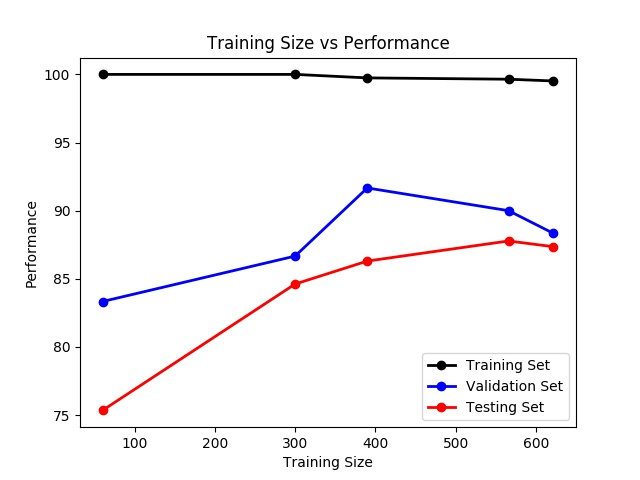
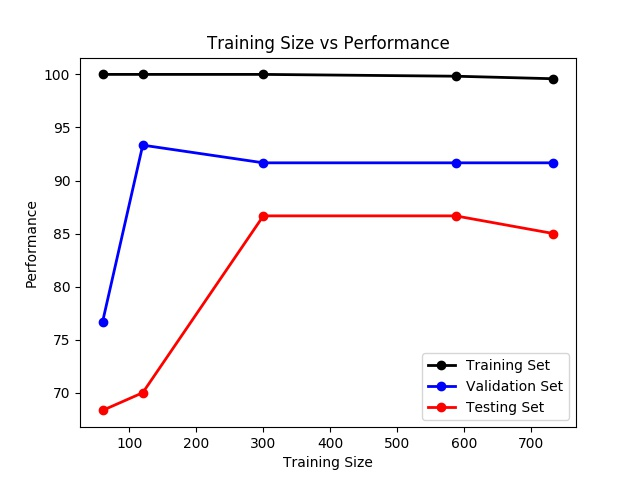
Cleanup dataset and get all plots working

diff --git a/faces.py b/faces.py
@@ -29,12 +29,14 @@ def part1():
     # Actors for training and validation set
     act = ['Lorraine Bracco', 'Peri Gilpin', 'Angie Harmon', 'Alec Baldwin', 'Bill Hader', 'Steve Carell']
 
-    #get_and_crop_images(act)
+    get_and_crop_images(act)
 
     # Actors for testing set (part 5)
     act_test = ['Daniel Radcliffe', 'Gerard Butler', 'Michael Vartan', 'Kristin Chenoweth', 'Fran Drescher', 'America Ferrera']
 
-    get_and_crop_images(act_test)
+    #get_and_crop_images(act_test)
+
+    remove_bad_images()
 
 ################################################################################
 # Part 2
@@ -47,7 +49,7 @@ def part2():
 ################################################################################
 # Part 3
 ################################################################################
-def part3():
+def part3(full_training_set = True, max_iterations = 5000):
     actor_0, actor_1 = 'Alec Baldwin', 'Steve Carell'
 
     a_0_name = actor_0.split()[1].lower()
@@ -55,6 +57,10 @@ def part3():
 
     a_1_name = actor_1.split()[1].lower()
     training_set_1, validation_set_1, testing_set_1 = build_sets(a_1_name)
+
+    if not full_training_set:
+        training_set_0 = training_set_0[:2]
+        training_set_1 = training_set_1[:2]
 
     total_training_examples = len(training_set_0) + len(training_set_1)
 
@@ -79,7 +85,7 @@ def part3():
         i += 1
 
     theta_init = np.zeros(1025)
-    theta = grad_descent(f, df, x, y, theta_init, 0.00001, 50000)
+    theta = grad_descent(f, df, x, y, theta_init, 0.00001, max_iterations)
 
     # Performance on Training Set
     correct, total, cost_fn = 0, 0, 0
@@ -145,11 +151,31 @@ def part3():
     print("Validation Set Performance = "+str(correct)+"/"+str(total))
     print("Cost Function value for validation set is "+str(cost_fn))
 
+    return theta
+
 ################################################################################
 # Part 4
 ################################################################################
 def part4():
-    pass
+    theta_4a_1, theta_4a_2 = part3(True), part3(False)
+
+    theta_4a_1 = np.delete(theta_4a_1, 0)
+    theta_4a_1 = np.reshape(theta_4a_1, (32, 32))
+    imsave("part4a_1.jpg", theta_4a_1, cmap = "RdBu")
+
+    theta_4a_2 = np.delete(theta_4a_2, 0)
+    theta_4a_2 = np.reshape(theta_4a_2, (32, 32))
+    imsave("part4a_2.jpg", theta_4a_2, cmap = "RdBu")
+
+    theta_4b_1, theta_4b_2 = part3(True), part3(True, 10)
+
+    theta_4b_1 = np.delete(theta_4b_1, 0)
+    theta_4b_1 = np.reshape(theta_4b_1, (32, 32))
+    imsave("part4b_1.jpg", theta_4b_1, cmap = "RdBu")
+
+    theta_4b_2 = np.delete(theta_4b_2, 0)
+    theta_4b_2 = np.reshape(theta_4b_2, (32, 32))
+    imsave("part4b_2.jpg", theta_4b_2, cmap = "RdBu")
 
 ################################################################################
 # Part 5
@@ -174,22 +200,23 @@ def part5():
                        'America Ferrera': 'female'}
 
     # Training size (images per actor)
-    training_sizes = [10, 50, 65, 100, 120]
+    training_sizes = [10, 20, 50, 100, 150]
 
     training_sets, validation_sets, testing_sets = {}, {}, {}
 
     # Build training sets, validation sets and testing sets
     for a in act_train:
         a_name = a.split()[1].lower()
-        training_set, validation_set, _ = build_sets(a_name)
-        training_sets[a] = training_set
-        validation_sets[a] = validation_set
+        training_set, validation_set, testing_set = build_sets(a_name)
+        # Concatenate all list to make a bigger testing set
+        training_sets[a] = training_set + validation_set + testing_set
 
     for a in act_test:
         a_name = a.split()[1].lower()
         training_set, validation_set, testing_set = build_sets(a_name)
-        # Concatenate all list to make a bigger testing set
-        testing_sets[a] = training_set + validation_set + testing_set
+        # Use six actors not used in training to make validation and testing sets
+        validation_sets[a] = validation_set
+        testing_sets[a] = testing_set
 
     # Results for correspoding training sizes
     result_training_set, result_validation_set, result_testing_set = [], [], []
@@ -221,7 +248,7 @@ def part5():
                 i += 1
 
         theta_init = np.zeros(1025)
-        theta = grad_descent(f, df, x, y, theta_init, 0.000001, 50000)
+        theta = grad_descent(f, df, x, y, theta_init, 0.000001, 80000)
 
         # Performance on training set
         correct, total = 0, 0
@@ -248,7 +275,7 @@ def part5():
 
         # Performance on validation set
         correct, total = 0, 0
-        for a in act_train:
+        for a in act_test:
             for validation_example in validation_sets[a]:
                 v_img = imread("cropped/"+validation_example)
                 v_img = rgb2gray(v_img)
@@ -257,9 +284,9 @@ def part5():
 
                 prediction = dot(theta.T, v_img)
 
-                if act_train_gender[a] == 'male':
+                if act_test_gender[a] == 'male':
                     if linalg.norm(prediction) > 0.5: correct += 1
-                elif act_train_gender[a] == 'female':
+                elif act_test_gender[a] == 'female':
                     if linalg.norm(prediction) < 0.5: correct += 1
 
                 total += 1
@@ -352,7 +379,7 @@ def part7():
         a_i += 1
 
     theta_init = np.zeros((len(act), 1025))
-    theta = grad_descent_multiclass(f_multiclass, df_multiclass, x, y, theta_init, 0.000001, 20000)
+    theta = grad_descent_multiclass(f_multiclass, df_multiclass, x, y, theta_init, 0.0000001, 150000)
 
     # Performance on training set
     correct, total = 0, 0

diff --git a/get_data.py b/get_data.py
@@ -20,6 +20,7 @@ import matplotlib.image as mpimg
 import os
 from scipy.ndimage import filters
 import urllib
+import hashlib
 
 from rgb2gray import rgb2gray
 
@@ -69,9 +70,14 @@ def get_and_crop_images(act):
                 timeout(testfile.retrieve, (line.split()[4], "uncropped/"+filename), {}, 45)
 
                 crop_bbox = line.split()[5].split(',')
+                sha256_hash = line.split()[6]
 
                 # Convert uncropped image to cropped 32x32 grayscale
                 if not os.path.isfile("uncropped/"+filename):
+                    continue
+
+                # Check for SHA256 hash
+                if not hashlib.sha256(open("uncropped/"+filename, 'rb').read()).hexdigest() == sha256_hash:
                     continue
 
                 try:
@@ -86,3 +92,32 @@ def get_and_crop_images(act):
 
                 print filename
                 i += 1
+
+def remove_bad_images():
+    bad_image_filenames = ["baldwin68",
+                            "bracco90",
+                            "bracco64",
+                            "butler131",
+                            "butler132",
+                            "carell93",
+                            "chenoweth29",
+                            "chenoweth80",
+                            "chenoweth94",
+                            "drescher106",
+                            "drescher109",
+                            "drescher124",
+                            "drescher88",
+                            "ferrera159",
+                            "ferrera123",
+                            "hader4",
+                            "hader63",
+                            "hader77",
+                            "hader98",
+                            "harmon50",
+                            "radcliffe28",
+                            "vartan59",
+                            "vartan72"]
+
+    for filename in bad_image_filenames:
+        if os.path.isfile("cropped/"+filename+".jpg"):
+            os.remove("cropped/"+filename+".jpg")
